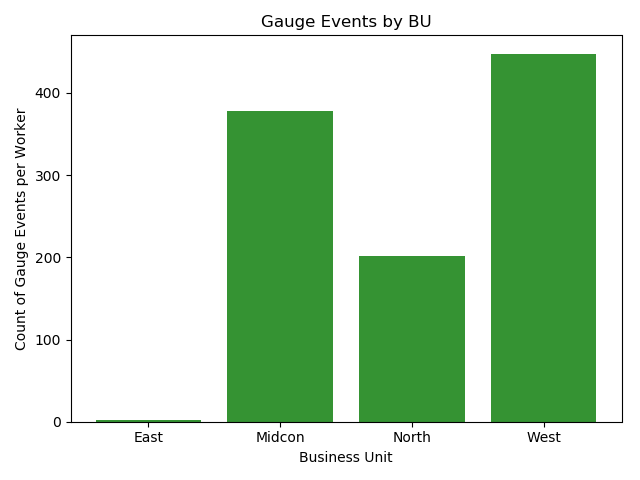
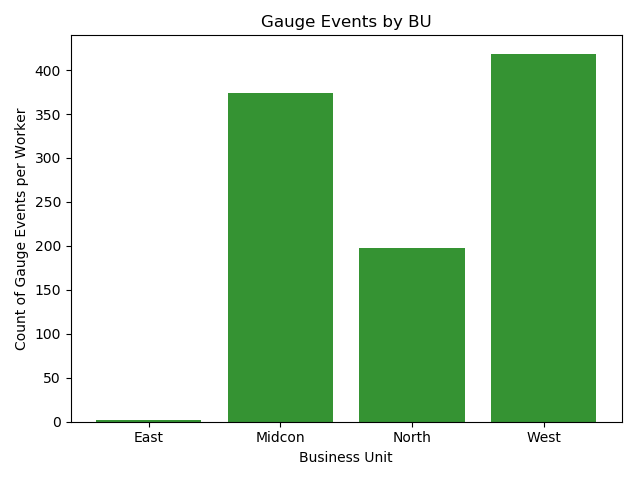
updating gauge pull

diff --git a/analyze.py b/analyze.py
@@ -131,6 +131,7 @@ def gauge_pull():
 		  FROM [TeamOptimizationEngineering].[Reporting].[ActionListHistory]
 		  WHERE [Action Type - No count] = 'Gauge'
 		     OR (CommentAction LIKE '%gaug%'
+			 	AND CommentAction LIKE '%tank%'
 				AND [Action Type - No count] = 'WM Completed')
 		ORDER BY Wellkey, [Action Date]
 	""")
@@ -382,7 +383,7 @@ if __name__ == '__main__':
 	a_df = pd.read_csv('data/comment_action.csv', encoding='ISO-8859-1')
 
 	gauge_df = gauge_pull()
-	# g_df = gauge_events(gauge_df)
+	g_df = gauge_events(gauge_df)
 	gauge_counts(gauge_df[['BusinessUnit', 'Wellkey']])
 
 	# pm_dist(a_df[a_df['Comment'].notnull()])
